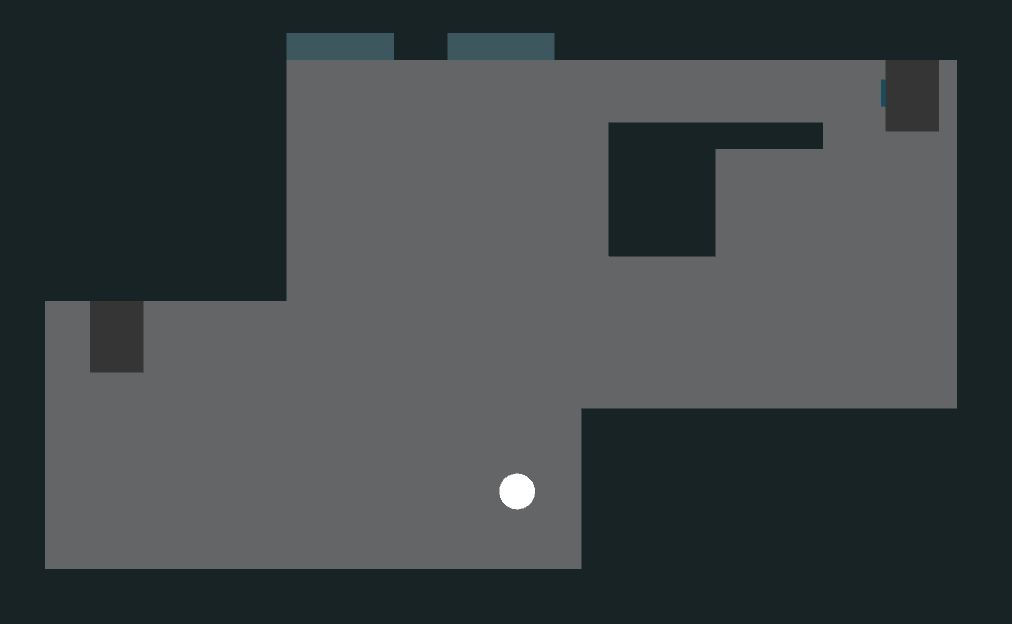
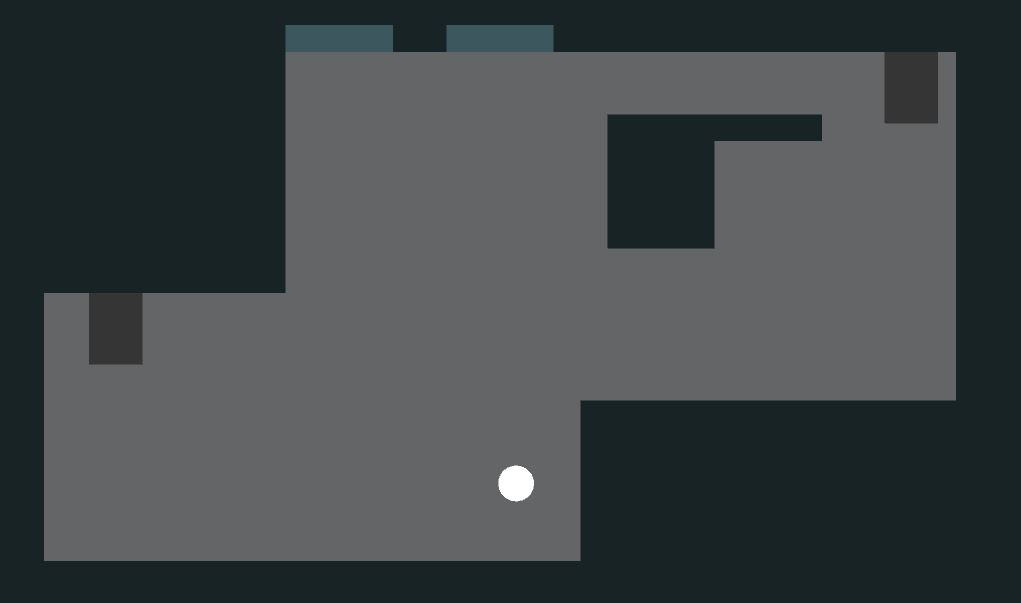
Selected level changes color to white and got rid of top label.

diff --git a/Assets/Scripts/Managers/levelSelect.cs b/Assets/Scripts/Managers/levelSelect.cs
@@ -14,14 +14,24 @@ public class levelSelect : MonoBehaviour {
 	
 
     public void Selected(int sceneNum) {
+        //Change previously selected to black
+        if (selectedScene != 0) {
+            var curLevel = GameObject.Find("Level" + selectedScene);
+            curLevel.GetComponentInChildren<UnityEngine.UI.Text>().color = new Color32(50,50,50,250);
+        }
+
         selectedScene = sceneNum;
         //Sets the image on the right
         string sceneName = "Room" + sceneNum;
         defaultImage.sprite = Resources.Load<Sprite>(sceneName);
 
         //Set label
-        var label = GameObject.Find("Label").GetComponent<UnityEngine.UI.Text>();
-        label.text = "Room " + sceneNum;
+        //var label = GameObject.Find("Label").GetComponent<UnityEngine.UI.Text>();
+        //label.text = "Room " + sceneNum;
+
+        //Trying to change font
+        var newLevel = GameObject.Find("Level" + sceneNum);
+        newLevel.GetComponentInChildren<UnityEngine.UI.Text>().color = Color.white;
     }
 
 
